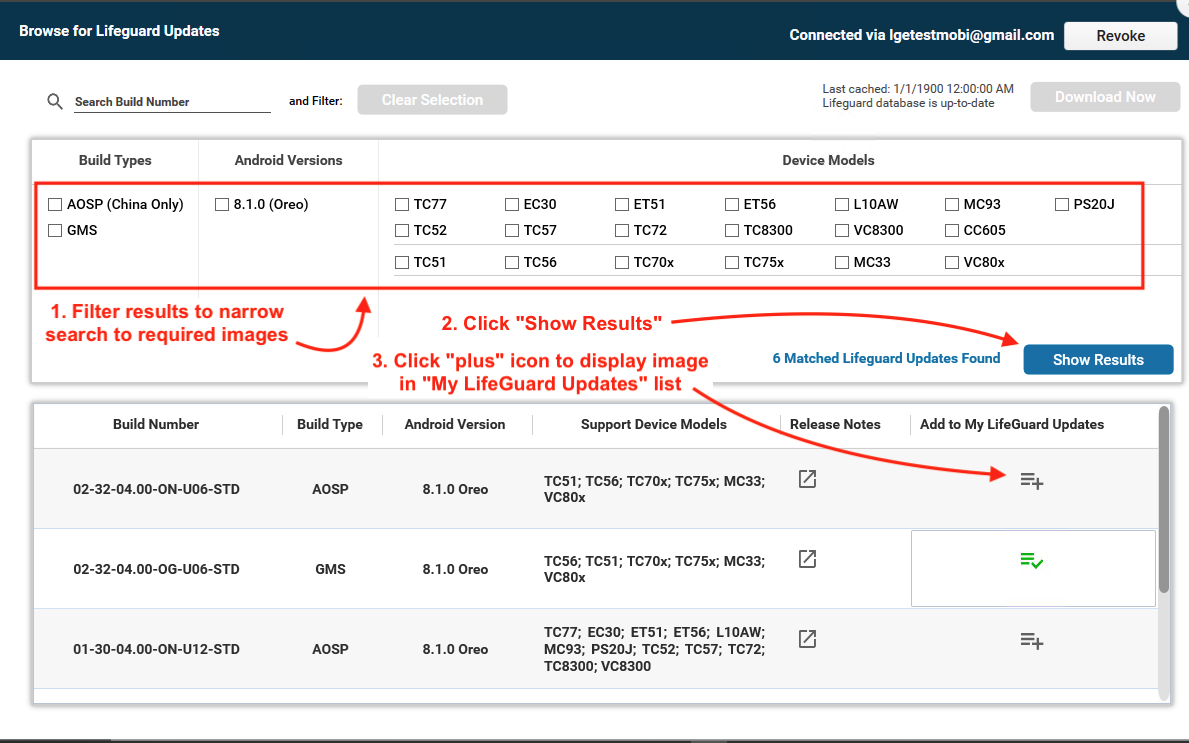
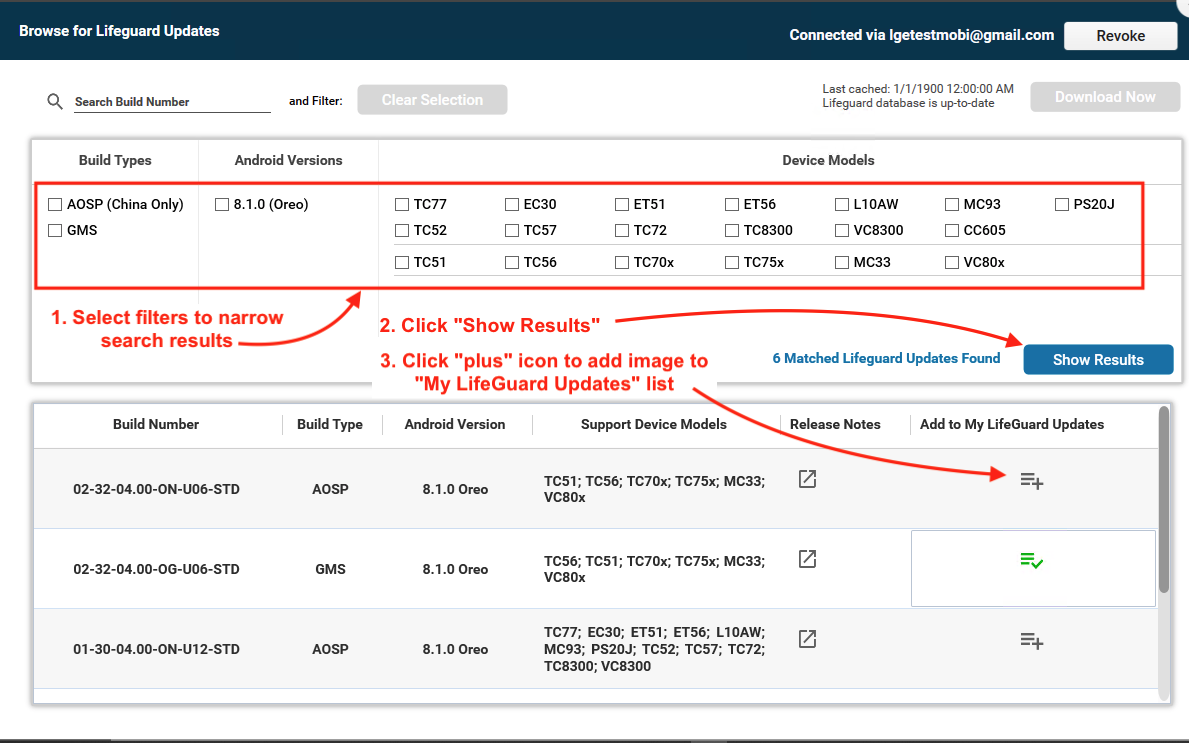
[TUT-43845] StageNow 5.0 Smart Profile page updates

Changed region(s): [[0.0311, 0.4024, 0.778, 0.5262], [0.8402, 0.4334, 0.8713, 0.4643]]

diff --git a/src/stagenow/5-0/smartprofile/index.md b/src/stagenow/5-0/smartprofile/index.md
@@ -61,7 +61,9 @@ _Click image to enlarge; ESC to exit_.
 _Click image to enlarge; ESC to exit_.
 <br>
 <br>
-7. On the "Browse for LifeGuard Updates" (shown below), **check the required boxes to filter search results** to display images of target device(s) as required.<br>**Then click the "Show Results" button** to display the filtered list.<br>Then **click the "plus" icon to display image in "My LifeGuard Updates" list. <br>
+7. **Check the required boxes to filter search results**.<br>
+**Click the "Show Results" button** to display the filtered list.<br>
+Then **click the "plus" icon to display image in "My LifeGuard Updates" list. <br>
 When the image list appears as desired, **[proceed to Section II](#iicreateasmartprofile)**. 
 <img alt="image" style="height:400px" src="sn5_08.png"/>
 _Click image to enlarge; ESC to exit_.
@@ -117,15 +119,15 @@ _Click image to enlarge; ESC to exit_.<br>
 <img alt="image" style="height:400px" src="sn5_12.png"/>
 _Click image to enlarge; ESC to exit_.<br>
 <br>
-9. **Select the desired options to test or publish** the Smart Profile:
-<img alt="image" style="height:400px" src="sn5_13ab.png"/>
+9. **Select the desired publishing medium and click the "Test" or Publish" button**:<br>
+ * **<u>Barcode</u>** generates one or more barcodes that execute the Smart Profile on any device that scans it. 
+ * **<u>NFC/SD/USB</u>** generates a `.bin` file to be consumed on devices by the StageNow app.<br>
+ [See more about publishing StageNow Profiles](../stageclient/#iiselectstagingmedium)<br>
+<img alt="image" style="height:400px" src="sn5_14.png"/>
 _Click image to enlarge; ESC to exit_.<br>
 <br>
-10. **Select the desired publishing medium and click the "Test" or Publish" button**:<br>
- * **<u>Barcode</u>** generates one or more barcodes that executes the Smart Profile on any device that scans it. 
- * **<u>NFC/SD/USB</u>** generates a `.bin` file to be consumed on devices by the StageNow app.
- More info [about publishing](../stageclient/#iiselectstagingmedium).
-<img alt="image" style="height:400px" src="sn5_14.png"/>
+10. **Select the desired options to test or publish the Smart Profile**:
+<img alt="image" style="height:400px" src="sn5_13ab.png"/>
 _Click image to enlarge; ESC to exit_.<br>
 <br>
 
